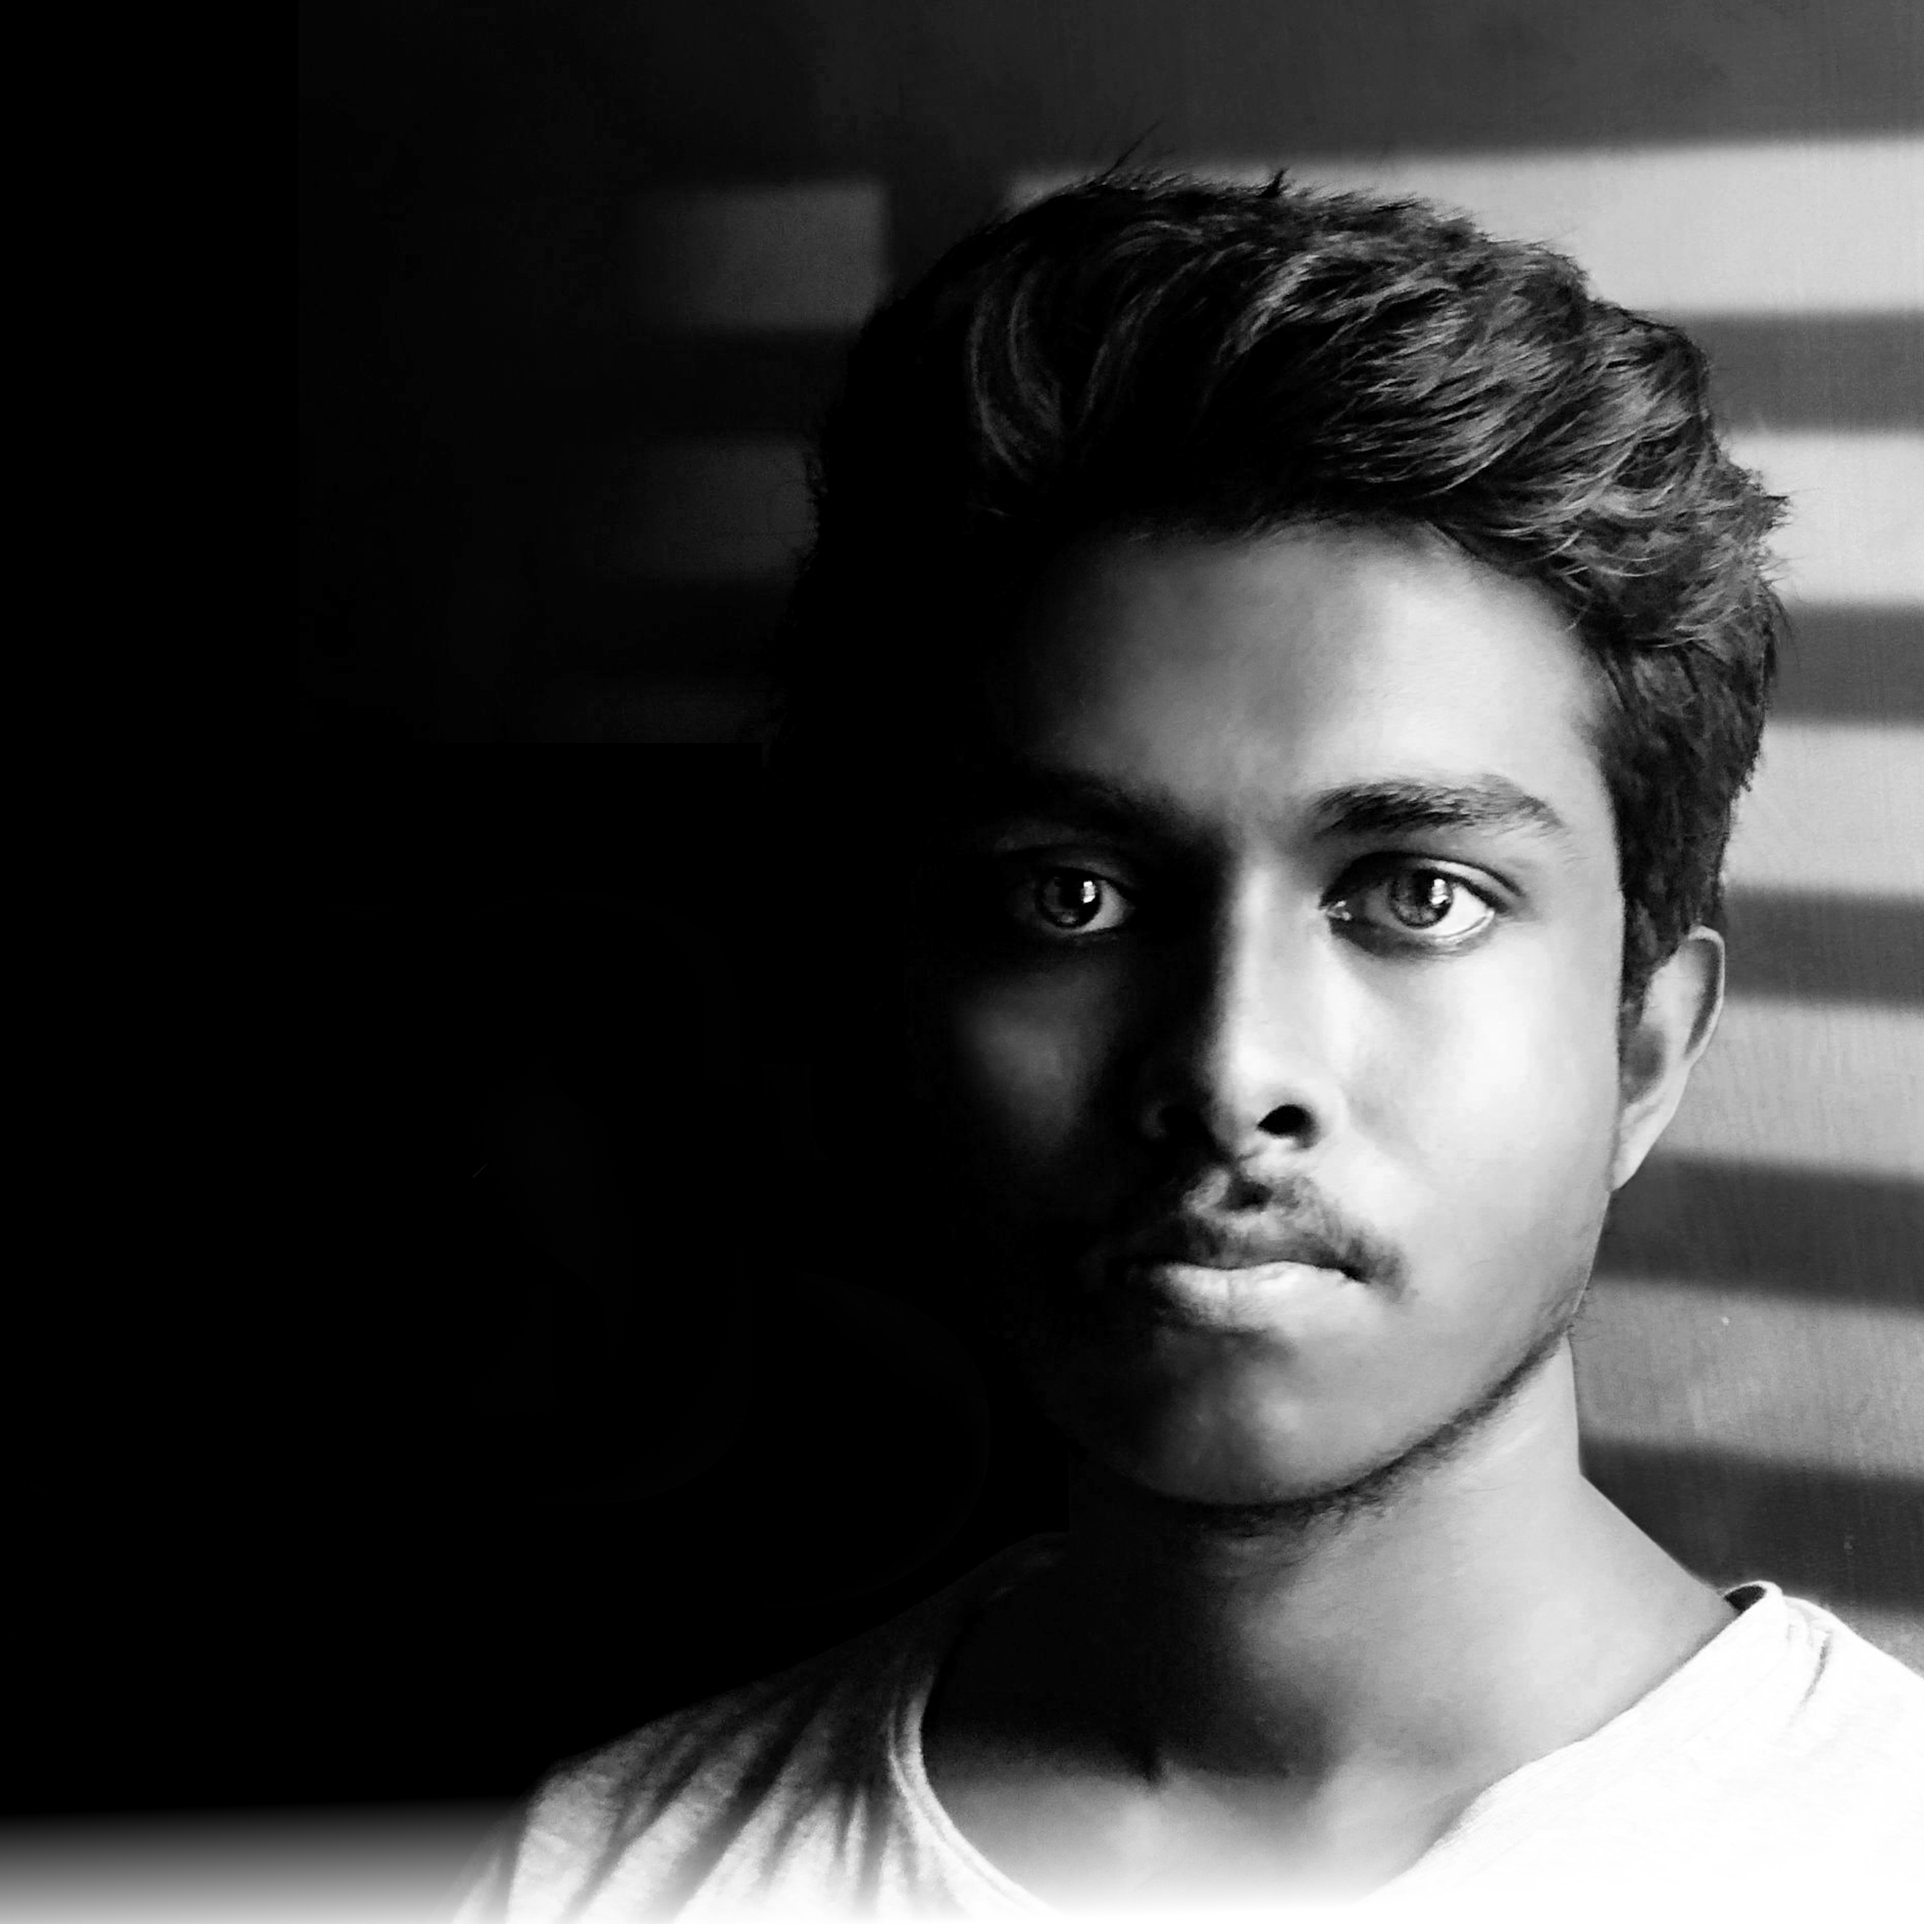
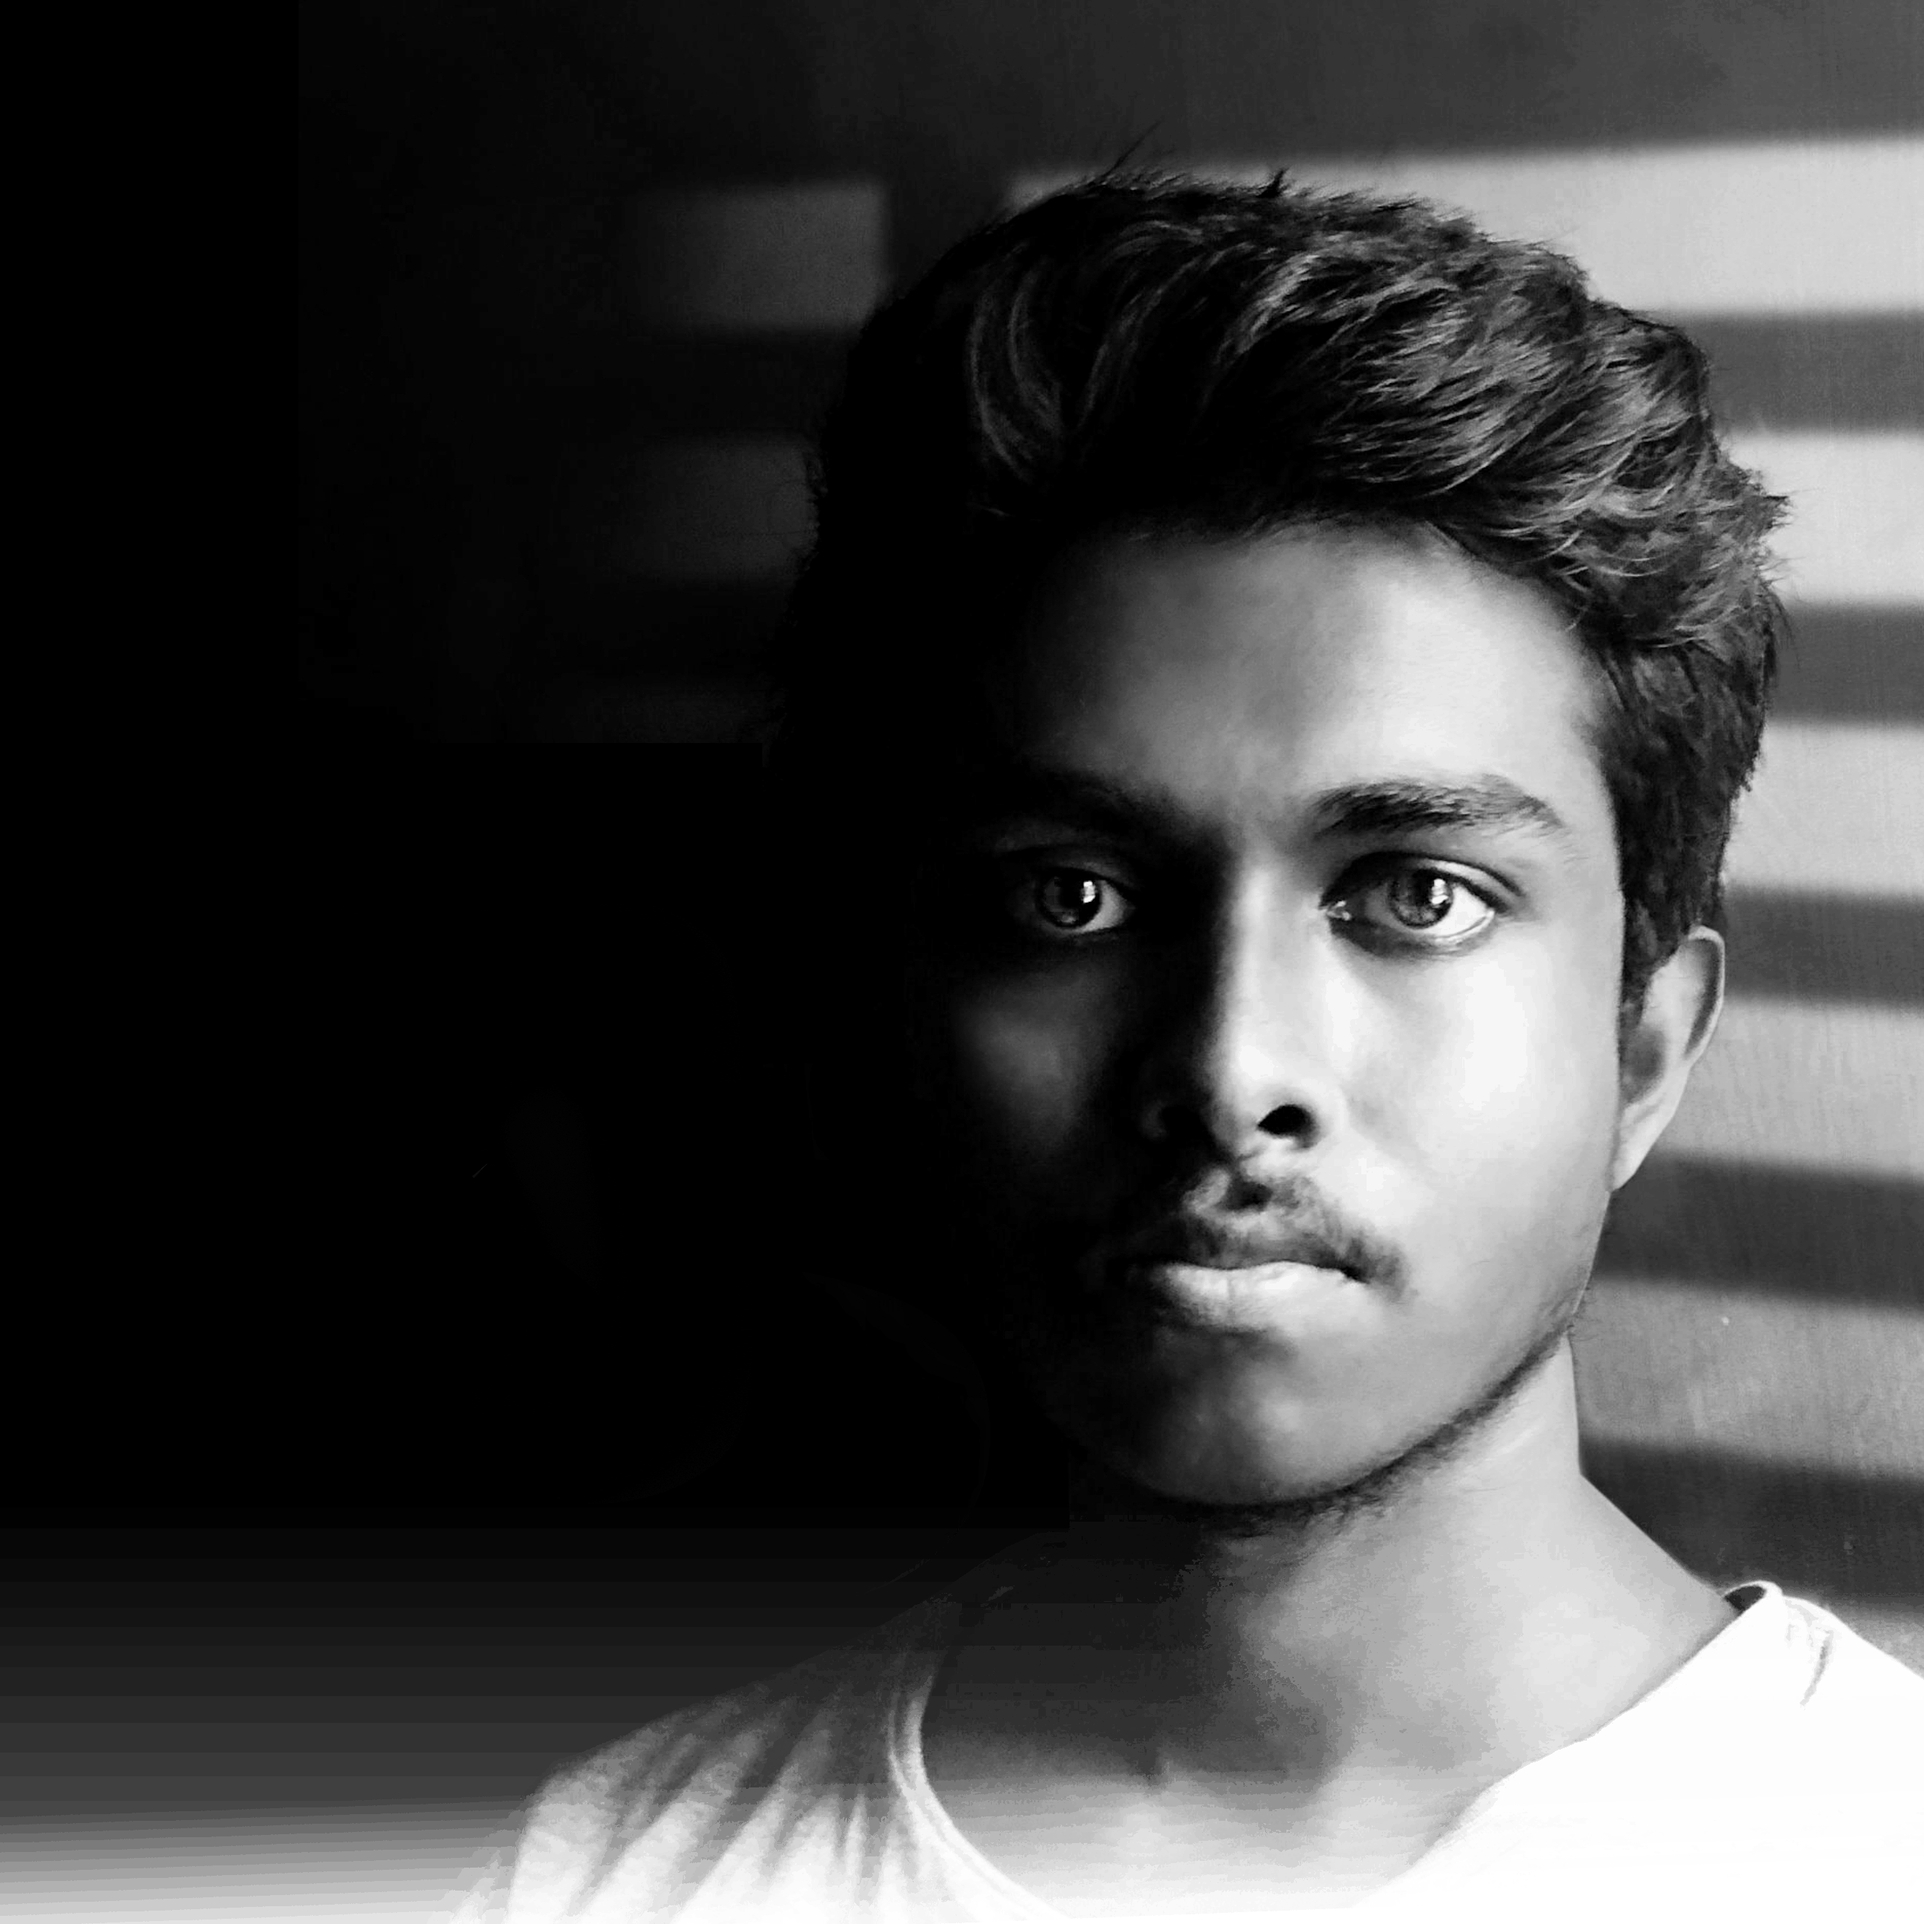
Updated hero section

Changed region(s): [[0.0, 0.8438, 0.75, 1.0]]

diff --git a/style.css b/style.css
@@ -61,13 +61,13 @@ nav ul li a:hover {
     width: 100%;
     height: 500px;
     display: flex;
-    flex-direction: row;
+    flex-direction: column;
     justify-content: space-between;
 }
 .home_text{
     text-align: left;
-
-    padding-top: 100px;
+    width: 60%;
+    padding-top: 50px;
 }
 .home_text h1{
     font-size: 80px;
@@ -75,7 +75,6 @@ nav ul li a:hover {
 .home_text p{
     color: #afafaf;
     font-size: 40px;
-    width: 50%;
 }
 .home_text p span{
     font-weight: bolder;
@@ -179,32 +178,40 @@ footer {
     }
 
     .hero{
-        padding-left: 10px;
+        padding-left: 20px;
     }
 
     .home_text{
         text-align: left ;
         padding-right: 20px;
+        width: 50%;
     }
 
     .home_text h1{
         color: #ffffff;
-        font-size: 50px;
+        font-size: 25px;
         padding-top: 0px;
     }
 
-    .home_text p{
+    .about_me_card{
+        padding: 15%;
+        background: rgb(197, 197, 197);
+        border-radius: 50px 0px 0px 50px;
+        box-shadow: #000000;
+    }
+    .about_me_card p{
+        color: #000000;
         padding-top:0px;
         font-size: 20px;
-        width: 60%;
         text-align: justify;
+        font-weight: bolder;
     }
 
     nav ul li {
         margin: 10px 0;
     }
     .hero_img{
-        height: 50vh;
+        height: 43vh;
 
     }
 

diff --git a/index.html b/index.html
@@ -30,12 +30,14 @@
             </div>
             <div class="home">
                 <div class="home_text">
-                    <h1>Welcome,</h1>
-                    <!-- Add a brief introduction about yourself here -->
+                    <h1>Nice to meet you!! I am KIRTI SAGAR</h1>
+                    <!-- Add a brief introduction about yourself here -->                        
+                </div>
+                <div class="about_me_card">
                     <p>Hello, I'm <span>KIRTI SAGAR</span>, and this is my portfolio website and I'm excited to share my work with you</p>
                 </div>
             </div>
-            <img class="hero_img" src="Images/hero_img.png" alt="">
+            <img class="hero_img" src="Images/hero_img.jpg" alt="">
         </div>
     </section>
 
